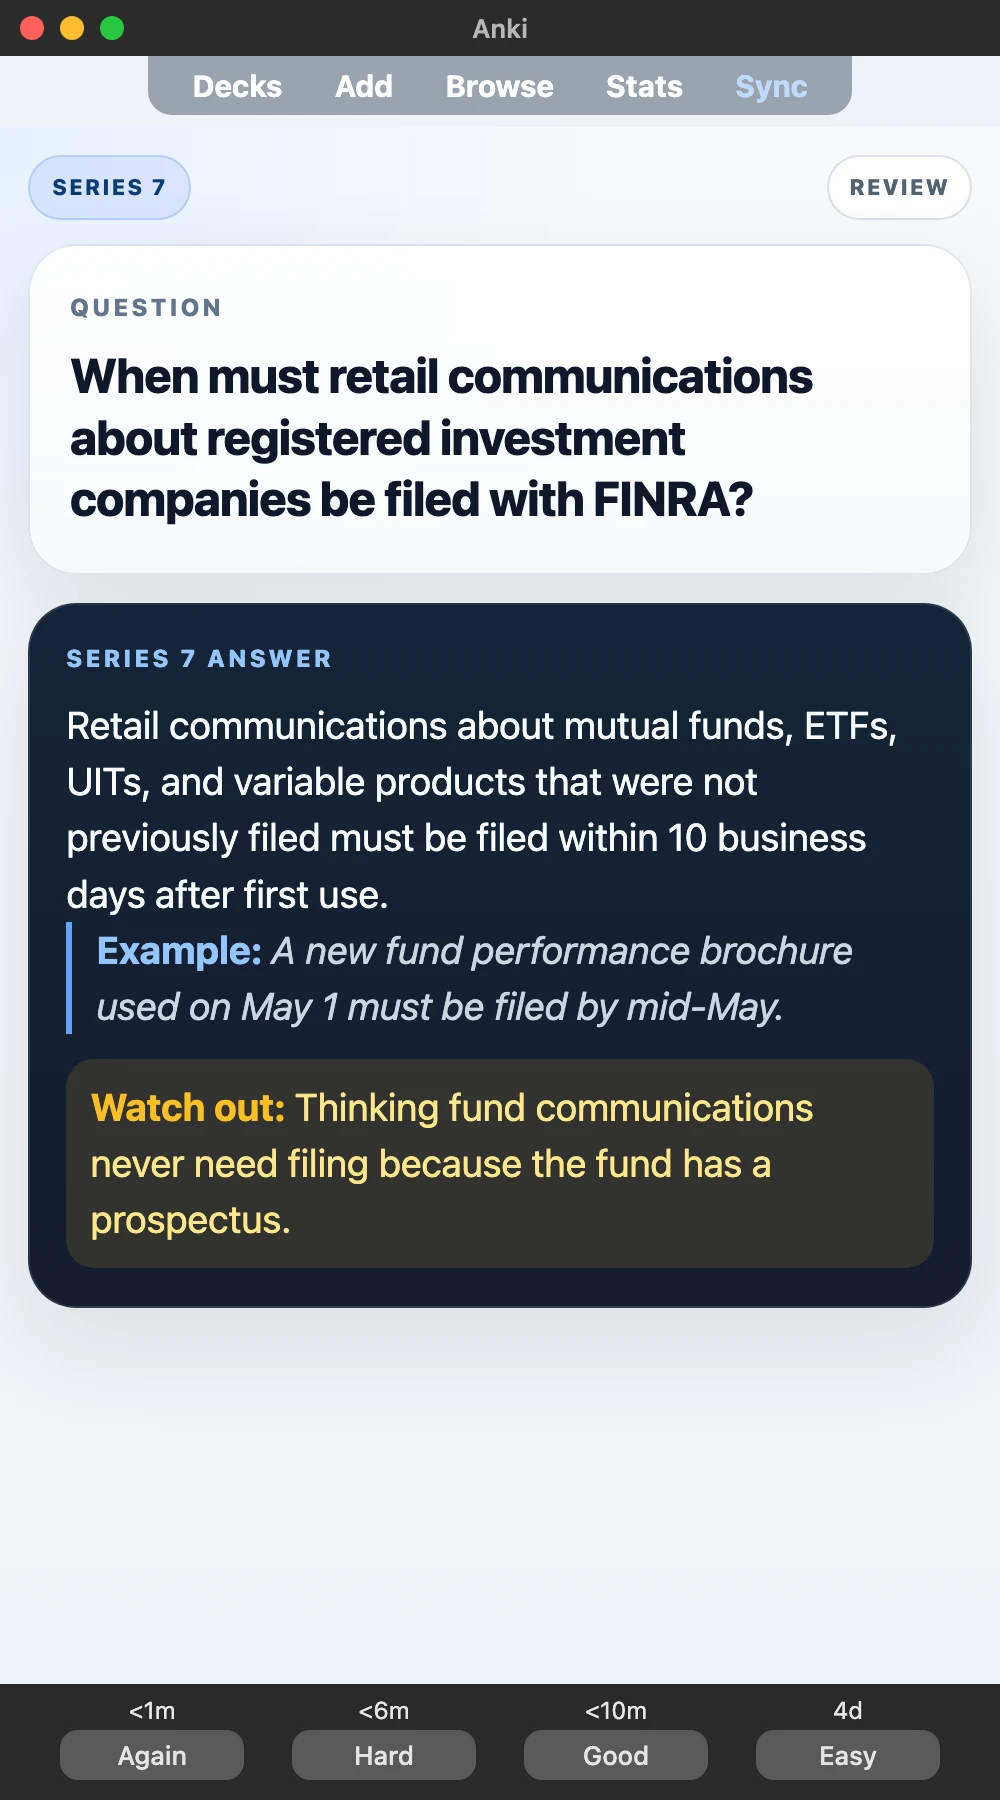
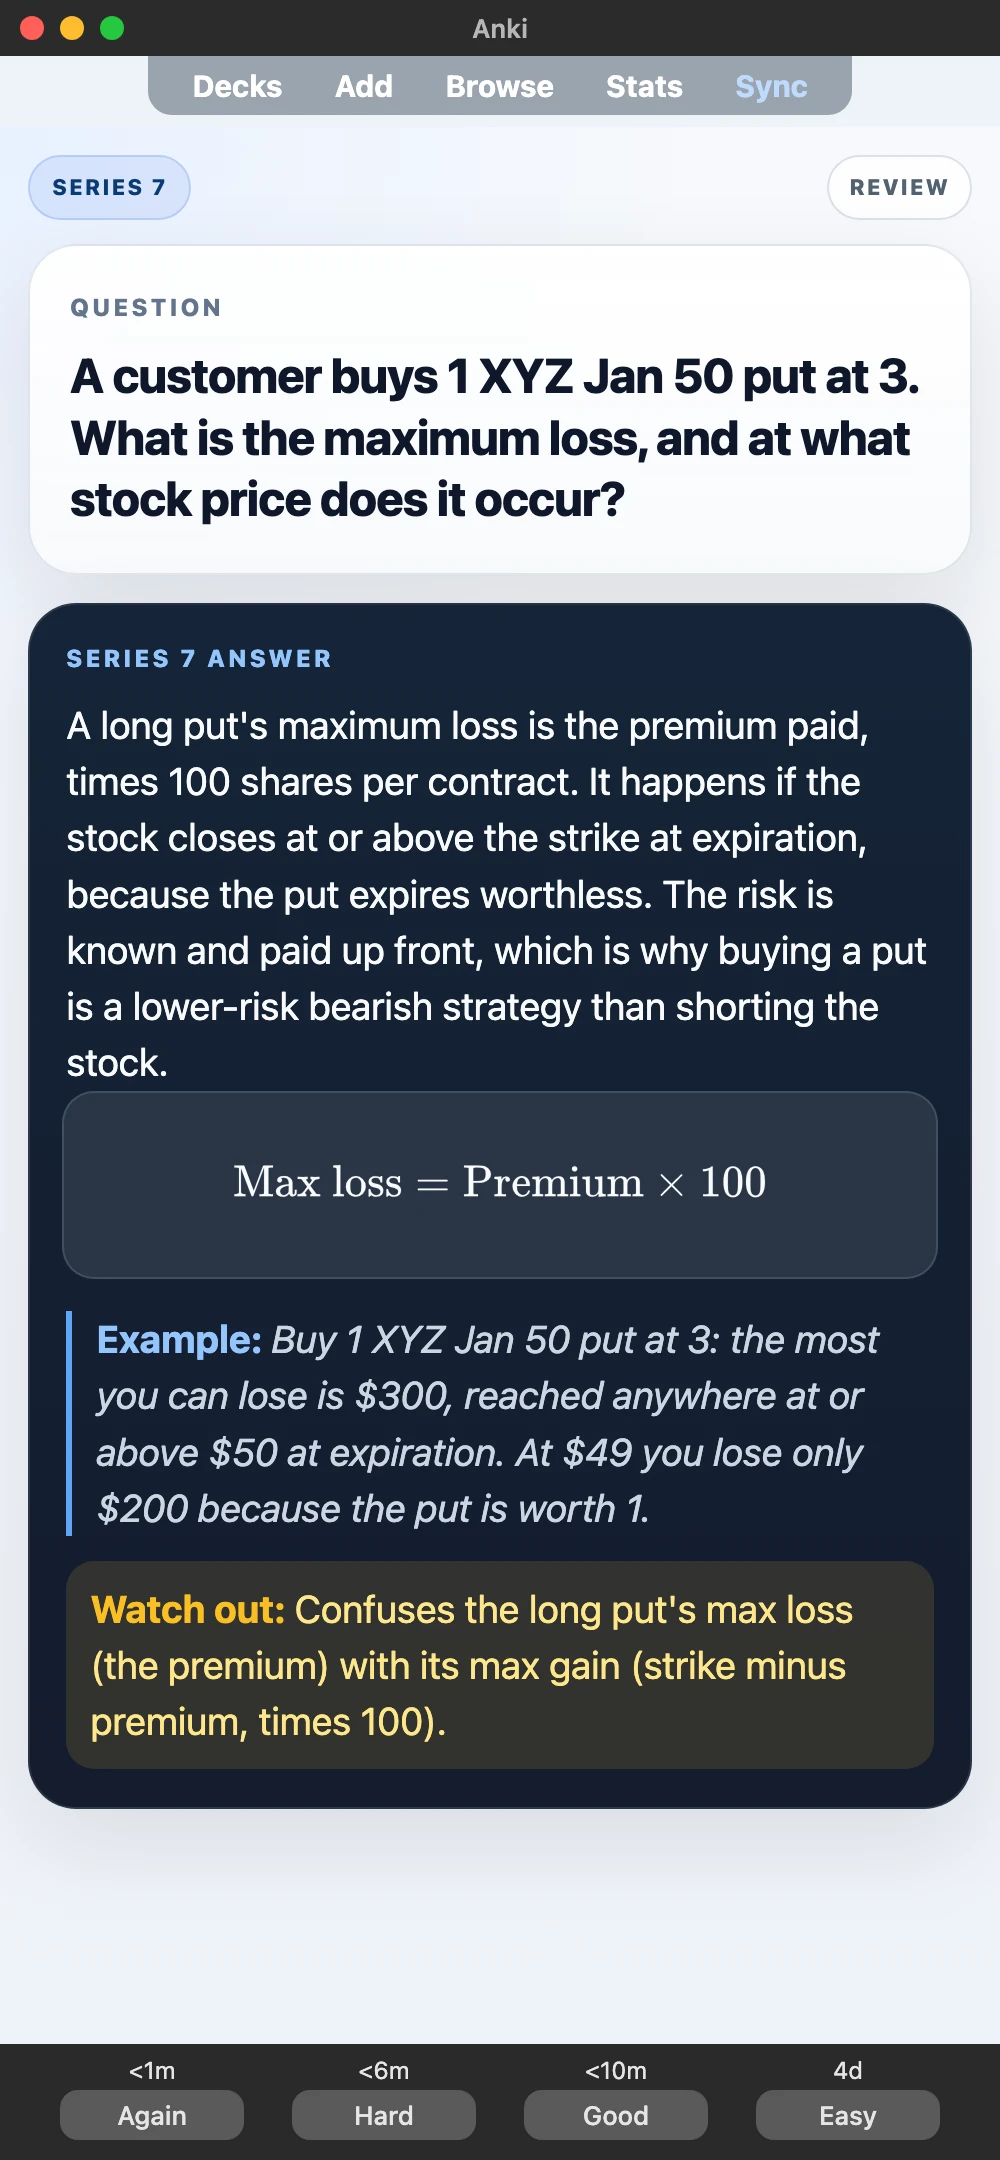
Sell Series 7 with calculation samples, not definition cards.
Gumroad and the deck page now show TEY, long-put max loss, and suitability capacity — the bank was already clean.

diff --git a/landing-pages/finance/series-7-anki-deck.html b/landing-pages/finance/series-7-anki-deck.html
@@ -1,11 +1,11 @@
 <!DOCTYPE html><html><body style="font-family:system-ui,sans-serif;max-width:720px;margin:0 auto;padding:1.5rem;line-height:1.5">
-<h1>Series 7 Anki Deck — 300 High-Yield Flashcards</h1>
+<h1>Series 7 Flashcards — 300 High-Yield Top-Off Cards + Free Timed Mock</h1>
 <p>Independent UniPrep2Go study deck — active-recall Anki flashcards delivered as an instant .apkg download through Gumroad.</p>
 <p>Free practice test: <a href="https://uniprep2go.study/mock-exams/series-7-readiness-check">https://uniprep2go.study/mock-exams/series-7-readiness-check</a></p>
 <p>Deck page: <a href="https://uniprep2go.study/decks/series-7-anki-deck">uniprep2go.study/decks/series-7-anki-deck</a></p>
 <h2>Sample cards</h2>
-<figure style="margin:1rem 0"><img src="https://public-files.gumroad.com/x4urua1iervxn0scuxqu5k8oqpu7" alt="Sample card 1" style="max-width:100%;border-radius:8px"/><figcaption style="color:#666;font-size:0.9rem">How do defined benefit and defined contribution plans differ? — Defined benefit promises a set retirement benefit and the employer bears the investment risk. Defined contribution sets contributions, and the employee bears investment risk.</figcaption></figure>
-<figure style="margin:1rem 0"><img src="https://public-files.gumroad.com/b60hvycfj928mqboq6hpao2km56i" alt="Sample card 2" style="max-width:100%;border-radius:8px"/><figcaption style="color:#666;font-size:0.9rem">When must retail communications about registered investment companies be filed with FINRA? — Retail communications about mutual funds, ETFs, UITs, and variable products that were not previously filed must be filed within 10 business days after first use.</figcaption></figure>
-<figure style="margin:1rem 0"><img src="https://public-files.gumroad.com/8ine0dajd8rzl51dr0v8k8qysz04" alt="Sample card 3" style="max-width:100%;border-radius:8px"/><figcaption style="color:#666;font-size:0.9rem">How do all-or-none, fill-or-kill, and immediate-or-cancel orders differ? — AON: fill the whole order or nothing, but not necessarily immediately. FOK: fill the whole order immediately or cancel it. IOC: fill immediately whatever is possible and cancel the rest.</figcaption></figure>
+<figure style="margin:1rem 0"><img src="https://public-files.gumroad.com/4gjja3g5bcjsuu9ejd7twf3o0yo6" alt="Sample card 1" style="max-width:100%;border-radius:8px"/><figcaption style="color:#666;font-size:0.9rem">A customer in the 32% bracket compares a 4% muni with a 5.5% corporate bond. Which pays more after tax? — Divide the muni yield by one minus the customer's federal bracket to get the taxable-equivalent yield. 4% / 0.68 = 5.88%, which beats the 5.5% corporate, so the muni wins. The higher the bracket, the more a muni is worth; an in-state muni can also avoid state tax. The comparison is meaningless inside an IRA.</figcaption></figure>
+<figure style="margin:1rem 0"><img src="https://public-files.gumroad.com/0wgqxjyipw7jzpqekere8jui26p6" alt="Sample card 2" style="max-width:100%;border-radius:8px"/><figcaption style="color:#666;font-size:0.9rem">A customer buys 1 XYZ Jan 50 put at 3. What is the maximum loss, and at what stock price does it occur? — A long put's maximum loss is the premium paid, times 100 shares per contract. It happens if the stock closes at or above the strike at expiration, because the put expires worthless. The risk is known and paid up front, which is why buying a put is a lower-risk bearish strategy than shorting the stock.</figcaption></figure>
+<figure style="margin:1rem 0"><img src="https://public-files.gumroad.com/pxem73l3pqey9313us3gd9k5glx8" alt="Sample card 3" style="max-width:100%;border-radius:8px"/><figcaption style="color:#666;font-size:0.9rem">When a customer's risk tolerance and risk capacity disagree, which one limits the recommendation? — Risk tolerance is the customer's willingness to accept losses; risk capacity is the financial ability to absorb them, based on income, net worth, obligations, and time horizon. The recommendation should fit the lower of the two: an eager investor with little capacity, or a wealthy but anxious one, both get a more conservative portfolio.</figcaption></figure>
 <p><em>Independent study aid — not official exam material.</em></p>
 </body></html>

diff --git a/src/lib/decks.ts b/src/lib/decks.ts
@@ -821,21 +821,21 @@ const rawDecks: Deck[] = [
     ],
     sampleCards: [
       {
-        question: "How do defined benefit and defined contribution plans differ?",
+        question: "A customer in the 32% bracket compares a 4% muni with a 5.5% corporate bond. Which pays more after tax?",
         answer:
-          "Defined benefit promises a set retirement benefit and the employer bears the investment risk. Defined contribution sets contributions, and the employee bears investment risk.",
+          "Divide the muni yield by one minus the customer's federal bracket to get the taxable-equivalent yield. 4% / 0.68 = 5.88%, which beats the 5.5% corporate, so the muni wins. The higher the bracket, the more a muni is worth; an in-state muni can also avoid state tax. The comparison is meaningless inside an IRA.",
         imageUrl: "/samples/series-7-anki-deck-sample-1.webp",
       },
       {
-        question: "When must retail communications about registered investment companies be filed with FINRA?",
+        question: "A customer buys 1 XYZ Jan 50 put at 3. What is the maximum loss, and at what stock price does it occur?",
         answer:
-          "Retail communications about mutual funds, ETFs, UITs, and variable products that were not previously filed must be filed within 10 business days after first use.",
+          "A long put's maximum loss is the premium paid, times 100 shares per contract. It happens if the stock closes at or above the strike at expiration, because the put expires worthless. The risk is known and paid up front, which is why buying a put is a lower-risk bearish strategy than shorting the stock.",
         imageUrl: "/samples/series-7-anki-deck-sample-2.webp",
       },
       {
-        question: "How do all-or-none, fill-or-kill, and immediate-or-cancel orders differ?",
+        question: "When a customer's risk tolerance and risk capacity disagree, which one limits the recommendation?",
         answer:
-          "AON: fill the whole order or nothing, but not necessarily immediately. FOK: fill the whole order immediately or cancel it. IOC: fill immediately whatever is possible and cancel the rest.",
+          "Risk tolerance is the customer's willingness to accept losses; risk capacity is the financial ability to absorb them, based on income, net worth, obligations, and time horizon. The recommendation should fit the lower of the two: an eager investor with little capacity, or a wealthy but anxious one, both get a more conservative portfolio.",
         imageUrl: "/samples/series-7-anki-deck-sample-3.webp",
       },
     ],

diff --git a/src/lib/deck-money-page-content.ts b/src/lib/deck-money-page-content.ts
@@ -1748,6 +1748,8 @@ New entrants confuse IPO vs secondary offerings, margin account rules, and when 
 
 Series 7 flashcards for Top-Off: seeking business and opening accounts, investment products (equity, debt, options, funds), recommendations and suitability, order handling, confirmations, settlement, and regulatory records. Options cards include spreads, straddles, and margin requirements. Municipal securities and MSRB rules have dedicated prompts. This is not a [Series 63 flashcards](/decks/series-63-anki-deck) pack (NASAA state law).
 
+The three sample cards on this page are real notes from the shipped .apkg: tax-equivalent yield on a 4% muni versus a 5.5% corporate in the 32% bracket, maximum loss on a long XYZ 50 put bought at 3, and which of risk tolerance versus capacity limits a recommendation.
+
 Official FINRA Series 7 Top-Off is **125 scored + 5 pretest / 3 hours 45 minutes / passing score 72 (equated)**. Our free mock is a **60-question / 90-minute** job-function diagnostic — not a full-length 125Q bank like Mastery/TakeZero/FreeFellow.
 
 ### Study plan with the free mock

diff --git a/src/lib/decks.test.ts b/src/lib/decks.test.ts
@@ -409,9 +409,9 @@ describe("deck catalog", () => {
     expect(seriesSevenDeck?.facts.cards).toBe("300");
     expect(seriesSevenDeck?.sampleCards).toHaveLength(3);
     expect(seriesSevenDeck?.sampleCards.map((card) => card.question)).toEqual([
-      "How do defined benefit and defined contribution plans differ?",
-      "When must retail communications about registered investment companies be filed with FINRA?",
-      "How do all-or-none, fill-or-kill, and immediate-or-cancel orders differ?",
+      "A customer in the 32% bracket compares a 4% muni with a 5.5% corporate bond. Which pays more after tax?",
+      "A customer buys 1 XYZ Jan 50 put at 3. What is the maximum loss, and at what stock price does it occur?",
+      "When a customer's risk tolerance and risk capacity disagree, which one limits the recommendation?",
     ]);
   });
 

diff --git a/src/lib/mock-exams/configs.ts b/src/lib/mock-exams/configs.ts
@@ -355,7 +355,7 @@ const mockExamConfigDrafts: MockExamConfigDraft[] = [
     description:
       "A free 60-question Series 7 readiness diagnostic: options, muni, margin, tax and Reg BI scenarios weighted by FINRA job function, with answer review and a linked Anki deck repair plan.",
     examBody: "FINRA",
-    lastUpdated: "2026-10-02",
+    lastUpdated: "2026-10-05",
   },
   {
     slug: "series-63-readiness-check",

diff --git a/docs/mock-bank-qa/bank-audit-ledger.md b/docs/mock-bank-qa/bank-audit-ledger.md
@@ -7,6 +7,7 @@ One row per audit. "Cascade" = Anki rebuild/republish + samples + llms:export (s
 
 | Date | Mock slug | Deck slug | Gates | Content review | Cascade | Notes |
 |---|---|---|---|---|---|---|
+| 2026-10-05 | `series-7-readiness-check` | `series-7-anki-deck` | 0 FAIL / 0 WARN · triage clean · keys 15×4 | Mock bank already market-best (2026-10-02 rewrite). Deck samples were definition cards (DB vs DC, AON/FOK/IOC). Replaced with selling notes: TEY 4% muni vs 5.5% corp, long 50 put max loss, risk tolerance vs capacity | Site+Gumroad copy → Series 7 Flashcards; samples re-rendered from shipped `.apkg`; finance polish + CDN 195/195 | Layer B query `series 7 flashcards` |
 | 2026-10-05 | `rd-exam-readiness-check` | `rd-exam-anki-deck` (live $11) | 0 FAIL quality · triage P2 (thinRate on 70–90 char expls, not Wave templates) · 120/120 · keys a26/b33/c34/d27 | First live start (Bing PH Exam). Never AEO-ledgered. Point-fix 9 FAIL notes/expl (`manual-patches-zfix-rd-exam-audit-2026-10-05.json`): leftover-reheat 165°F/15 s vs poultry cook CCP; AND/ASPEN dessert note; PDSA/leadership pads. Spot-read 120 stems — CDR domains, not DTR/nursing remap | Wave `Rd_FULL_120.apkg` + Gumroad file 2026-10-05. Hub lead was lying **60Q**; now 120Q/120m linear vs CAT 125–145/3h/25. Mock SEO $11 Anki CTA. Ops ready. Not committed until ship OK | ≠ DTR; 2022–2026 domains until 2027-01-01 |
 | 2026-10-04 | `gmat-focus-readiness-check` | `gmat-focus-anki-deck` (live $11) | 0 FAIL · keys 50×4 · 200 unique | Full rewrite for current 2026 GMAT (`manual-patches-zfix-gmat-audit-2026-10-04-{a..d}.json`): no SC, no Quant geometry, DS only in DI. SuperScore live 12 Aug 2026. | Building `GMAT_Focus_FULL_200.apkg` + Gumroad file + samples. Landing: rewritten Oct 2026 / 200 unique. | Not 10th Edition; not padded 400 |
 | 2026-10-04 | `gre-readiness-check` | `gre-anki-deck` (live $11) | **0 FAIL** after 2026-10-05 point-fix `quant-143` (3-digit multiples of 7; was near-dup of 081 divisor-count) · 350 · keys 89/90/85/86 | Full Verbal+Quant rewrite 2026-10-04. Official ~1h58 / 27+27 + Writing; mock 30Q/45m. AEO fresh until 2026-11-02. Source copy live (not waitlist) | Building `GRE_General_FULL_350.apkg` + Gumroad file 2026-10-04 and again 2026-10-05 | Anki = same bank |
